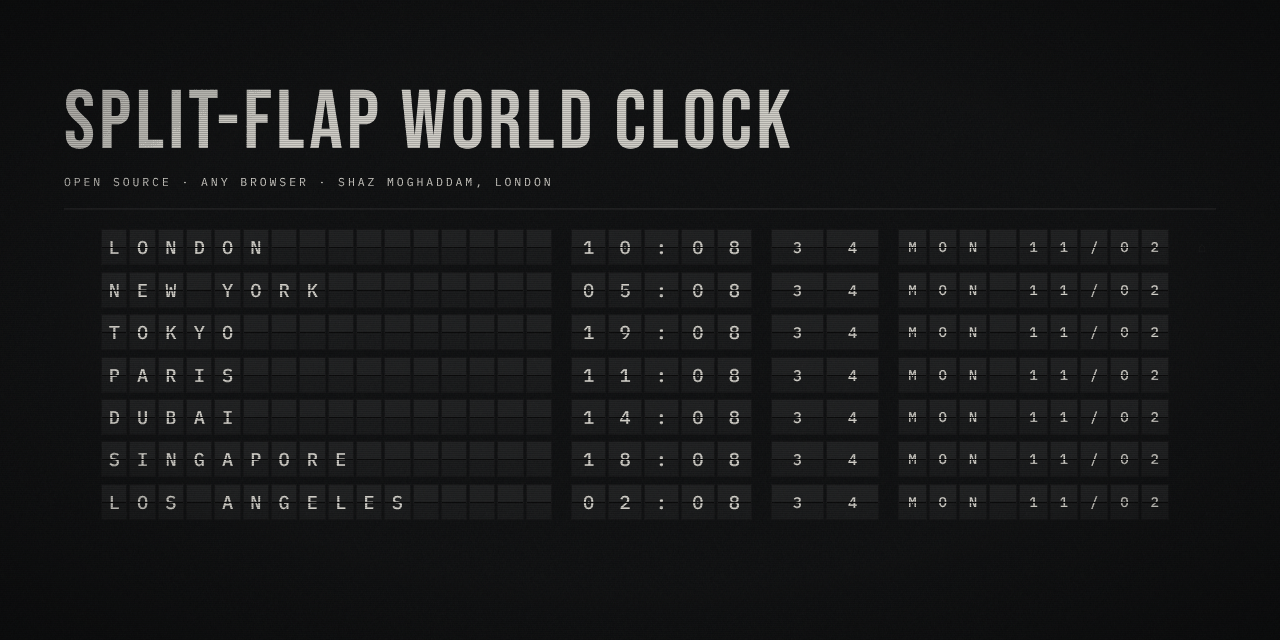
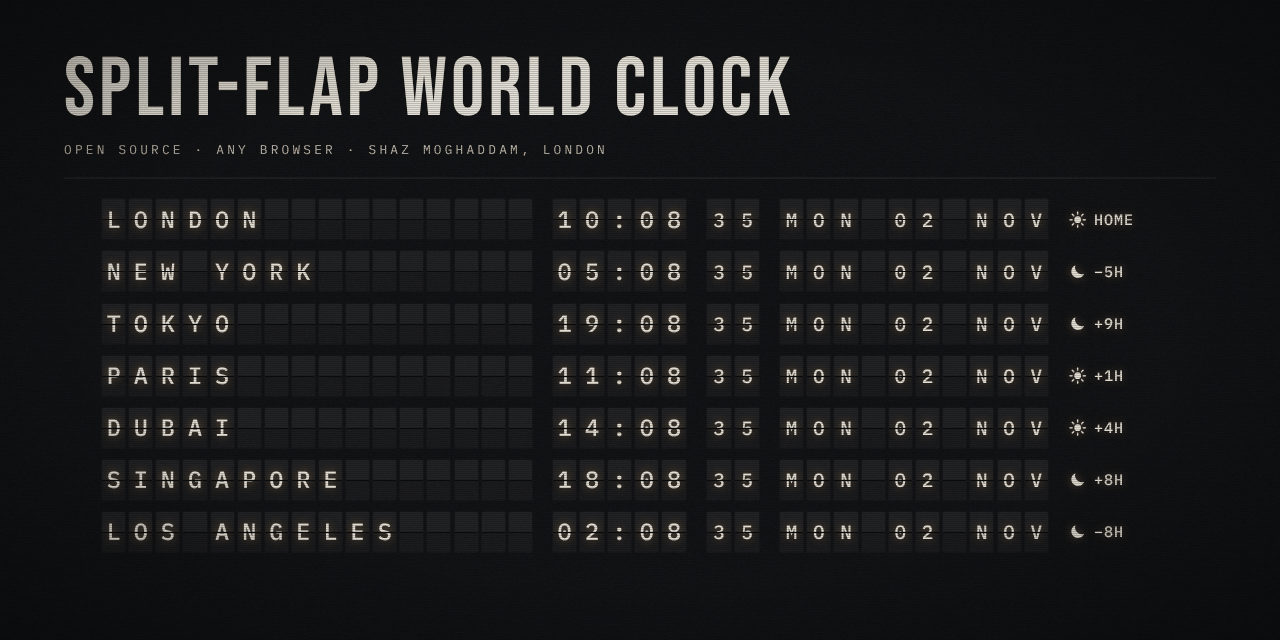
Docs and site for v1.0.0: README, site copy, screenshots, changelog
- README covers real split flaps, the F wave, day and night with time
  differences, the new date format, colour pickers, the backlit glow,
  the bigger board and the four Settings tabs
- Fresh board, Settings (Colours tab) and social preview images;
  preferences.png replaced by settings.png
- Site features, how-to and controls match the clock; Preferences is
  Settings everywhere; updated link preview description
- CONTRIBUTING explains colour presets instead of accent themes
- CHANGELOG folds everything into one 1.0.0 entry, grouped by area
- Clock: the first-visit hint is skipped inside the site's live
  preview, so visitors still see it when they open the clock

diff --git a/site/index.html b/site/index.html
@@ -9,7 +9,7 @@
 <meta property="og:type" content="website">
 <meta property="og:site_name" content="Split-Flap World Clock">
 <meta property="og:title" content="Split-Flap World Clock: a departure board for world time">
-<meta property="og:description" content="Up to ten cities on mechanical flaps, with sound, a night tint and full screen. Free and open source, nothing to install.">
+<meta property="og:description" content="Up to ten cities on real split flaps, with day and night, time differences, your own colours, sound and full screen. Free and open source, nothing to install.">
 <meta property="og:url" content="https://shazmoghaddam.github.io/split-flap-world-clock/">
 <meta property="og:image" content="https://shazmoghaddam.github.io/split-flap-world-clock/docs/social-preview.png">
 <meta property="og:image:width" content="1280">
@@ -42,7 +42,7 @@
 <main id="top">
   <section class="hero">
     <h1>A departure board<br>for <em>world time.</em></h1>
-    <p class="lede">Your cities on rows of mechanical flaps that clatter over as the minutes change. Open it in any browser, go full screen, and a spare laptop, monitor or tablet becomes a desk clock.</p>
+    <p class="lede">Your cities on rows of backlit flaps that fall over in two halves as the minutes change. Open it in any browser, go full screen, and a spare laptop, monitor or tablet becomes a desk clock.</p>
   </section>
 
   <section class="stage-wrap" aria-label="Live preview">
@@ -63,24 +63,24 @@
         <p>Up to ten from 290 cities around the world. Your home city comes from your device and stays on top; drag the rest into any order.</p>
       </li>
       <li>
-        <h3>Feels mechanical</h3>
-        <p>Tiles flip when they change, idle tiles twitch now and then, and <kbd>F</kbd> sends a cascade across the whole board.</p>
+        <h3>Real split flaps</h3>
+        <p>Each change falls over in two hinged halves, like an airport board. Idle tiles twitch now and then, and <kbd>F</kbd> sends one smooth wave across the board.</p>
+      </li>
+      <li>
+        <h3>Day and night at a glance</h3>
+        <p>A sun or moon on every row, its time difference from home, and clear dates like "MON 02 NOV". The board warms to amber through the evening.</p>
+      </li>
+      <li>
+        <h3>Your colours</h3>
+        <p>Pick any colour for the characters and the accent, start from a preset, and switch the backlit glow on or off.</p>
       </li>
       <li>
         <h3>Sounds right</h3>
         <p>Three flap sounds made live in the browser: heavy mechanical, plastic rattle and classic airport. Volume and mute included.</p>
       </li>
       <li>
-        <h3>Easy on the eyes at night</h3>
-        <p>The board drifts from a cool daylight white to a dim amber through the evening, and back again by morning.</p>
-      </li>
-      <li>
-        <h3>Fits any screen</h3>
-        <p>From a small laptop to a 4K monitor, every row fits without scrolling, even with ten cities.</p>
-      </li>
-      <li>
-        <h3>Private and offline</h3>
-        <p>One self-contained file with the fonts built in. No accounts, no tracking, and nothing leaves your device.</p>
+        <h3>Any screen, fully offline</h3>
+        <p>The board grows with your screen, up to 4K, and still fits ten cities. One file with the fonts built in: no accounts, no tracking.</p>
       </li>
     </ul>
   </section>
@@ -91,7 +91,7 @@
       <ol class="steps">
         <li>
           <h3>Open the clock</h3>
-          <p><a href="clock/">Open it here</a> in Chrome, Safari, Edge or Firefox. It starts with your home city and six others.</p>
+          <p><a href="clock/">Open it here</a> in Chrome, Safari, Edge or Firefox. It starts with your home city and six others, and a short hint shows the shortcuts on your first visit.</p>
         </li>
         <li>
           <h3>Go full screen</h3>
@@ -99,18 +99,19 @@
         </li>
         <li>
           <h3>Make it yours</h3>
-          <p>The gear opens Preferences: search for cities, pick one of nine accent colours and choose a flap sound. Everything is saved in your browser.</p>
+          <p>The gear opens Settings. Tap cities to add or remove them, pick any colour for the characters and the accent, and choose a flap sound. Everything is saved in your browser.</p>
         </li>
       </ol>
 
       <div class="keys">
         <h3>Controls</h3>
         <dl>
-          <div><dt><kbd>F</kbd></dt><dd>Flip the whole board</dd></div>
+          <div><dt><kbd>F</kbd></dt><dd>Send a wave across the board</dd></div>
           <div><dt><kbd>Shift</kbd> + <kbd>F</kbd></dt><dd>Full screen on or off</dd></div>
-          <div><dt><kbd>Esc</kbd></dt><dd>Close Preferences</dd></div>
+          <div><dt><kbd>Esc</kbd></dt><dd>Close Settings</dd></div>
           <div><dt>24H / 12H</dt><dd>Switch the time format</dd></div>
-          <div><dt>Row handles</dt><dd>Drag to reorder, or remove a city</dd></div>
+          <div><dt>Row handles</dt><dd>Drag a city up or down</dd></div>
+          <div><dt>Round cross</dt><dd>Take a city off the board</dd></div>
         </dl>
         <p class="keys__tip">On an iPad or iPhone, use Share, then Add to Home Screen, and open it from there for a full-screen clock.</p>
       </div>

diff --git a/app/src/main/assets/index.html b/app/src/main/assets/index.html
@@ -2865,6 +2865,8 @@ document.addEventListener('keydown', (e) => {
 /* ── First-visit hint: shows once, about 10 seconds, or until you interact ── */
 const HINT_KEY = 'terminaltime_hint_seen_v1';
 const showFirstHint = () => {
+  // Not inside the site's live preview: save the hint for the real clock
+  if (window.self !== window.top) return;
   let seen = false;
   try { seen = localStorage.getItem(HINT_KEY) === '1'; } catch (e) { seen = true; }
   if (seen) return;

diff --git a/docs/capture.py b/docs/capture.py
@@ -4,7 +4,7 @@
     python docs/capture.py
 
 Set CHROME_PATH to use an installed Chrome instead of Playwright's.
-Writes docs/board.png, docs/preferences.png and docs/social-preview.png.
+Writes docs/board.png, docs/settings.png and docs/social-preview.png.
 The clock is pinned to a morning time in London so the images are stable
 and show the neutral daytime tint.
 """
@@ -48,8 +48,9 @@ async def main():
         ctx, page = await open_clock(browser, 1280, 720)
         await page.mouse.move(640, 600)
         await page.click("#settingsBtn")
+        await page.click("#tabColours")
         await page.wait_for_timeout(600)
-        await page.screenshot(path=OUT / "preferences.png")
+        await page.screenshot(path=OUT / "settings.png")
         await ctx.close()
 
         # Social preview: the board's own header carries the title.

diff --git a/README.md b/README.md
@@ -5,17 +5,19 @@
 [![Deploy site](https://github.com/ShazMoghaddam/split-flap-world-clock/actions/workflows/pages.yml/badge.svg)](https://github.com/ShazMoghaddam/split-flap-world-clock/actions/workflows/pages.yml)
 [![MIT licence](https://img.shields.io/badge/licence-MIT-blue)](LICENSE)
 
-Split-Flap World Clock turns a spare laptop, monitor or tablet into a desk clock. Every city sits on its own row of mechanical flaps that clatter over as the minutes change, with synthesised flap sounds, a slow film grain and a tint that warms through the evening. It's one web page with nothing to install, and it runs offline.
+Split-Flap World Clock turns a spare laptop, monitor or tablet into a desk clock. Every city sits on its own row of backlit flaps that fall over in two halves as the minutes change, like a real airport board, with synthesised flap sounds, a slow film grain and a tint that warms through the evening. It's one web page with nothing to install, and it runs offline.
 
-![The board in daylight: London as the home city, then New York, Tokyo, Paris, Dubai, Singapore and Los Angeles, each with its time, seconds and date](docs/board.png)
+![The board in daylight: London as the home city, then New York, Tokyo, Paris, Dubai, Singapore and Los Angeles, each with its time, seconds, date, a sun or moon and its time difference from London](docs/board.png)
 
 **[Open the clock](https://shazmoghaddam.github.io/split-flap-world-clock/clock/)**, then press <kbd>Shift</kbd> + <kbd>F</kbd> for full screen. Or visit the [site](https://shazmoghaddam.github.io/split-flap-world-clock/) for a live preview.
 
-- **Your cities.** Pick up to ten from 290 cities around the world. Your home city comes from your device and always sits at the top; drag the others into any order.
-- **Feels mechanical.** Tiles flip when they change, idle tiles twitch now and then, and **F** sends a cascade across the whole board.
+- **Your cities.** Pick up to ten from 290 cities around the world. Your home city comes from your device's time zone and always sits at the top; drag the others into any order.
+- **Real split flaps.** Each change is two hinged halves: the old character's top half falls away and the new bottom half drops into place. Idle tiles twitch now and then, and **F** sends one smooth wave across the board.
+- **Day, night and time difference.** Every row shows a sun or moon and how far it is from home, like "+5H", "−8H" or "+5:30". Dates read "MON 02 NOV", the same in every country.
+- **Your colours.** Pick any colour for the characters and for the accent, with presets to start from, and turn the backlit glow on or off.
 - **Sounds right.** Three flap sounds made live with Web Audio (heavy mechanical, plastic rattle, classic airport), with volume and mute. No audio files.
-- **Easy on the eyes at night.** The board drifts from a cool daylight white to a dim amber through the evening and back by morning.
-- **Fits any screen.** From a small laptop to a 4K monitor, every row fits without scrolling, even with ten cities.
+- **Fits any screen.** The board grows with the screen, from a small laptop to a 4K monitor, and shrinks again so ten cities always fit.
+- **Easy on the eyes at night.** The board drifts from a cool daylight white to a warm, slightly dimmer amber through the evening, and back by morning.
 - **Stays awake.** The screen doesn't sleep while the clock is showing, in browsers that support it.
 - **Private.** One self-contained file with the fonts built in. No accounts, no tracking, and nothing leaves your device.
 
@@ -31,22 +33,29 @@ Split-Flap World Clock turns a spare laptop, monitor or tablet into a desk clock
 
 ## Using the clock
 
-Move the mouse or tap the screen to bring up the controls in the bottom corner. They fade away again after a few seconds.
+Move the mouse or tap the screen to bring up the controls in the bottom corner. They fade away again after a few seconds. On your first visit, a short hint at the bottom shows the main shortcuts.
 
 | Control | Key | What it does |
 | --- | --- | --- |
-| Gear | | Preferences: cities, colour theme and sound |
+| Gear | | Opens Settings |
 | 24H / 12H | | Switches the time format; 12-hour adds an AM/PM badge |
-| F | <kbd>F</kbd> | Flips the whole board |
+| F | <kbd>F</kbd> | Sends a wave across the whole board |
 | Full screen | <kbd>Shift</kbd> + <kbd>F</kbd> | Full screen on or off |
-| Speaker and VOL | | Mute and volume |
-| | <kbd>Esc</kbd> | Closes Preferences |
+| Speaker and VOL | | Mutes the board and sets the volume |
+| | <kbd>Esc</kbd> | Closes Settings |
 
-With the controls showing, each row gets a handle on the left to drag it and a cross on the right to remove it. In Preferences, search by city, country or time zone and click a city to add it. Pick one of nine accent colours and one of three flap sounds. Everything is saved in your browser.
+With the controls showing, each row gets a handle on the left to drag it up or down and a round cross on the right to take it off the board.
 
-Browsers only allow sound after you've clicked, tapped or pressed a key, so the flaps start clicking after your first interaction.
+### Settings
 
-![Preferences open on the Cities tab, with a search box and a list of cities and their local times](docs/preferences.png)
+- **Cities:** search by city, country or time zone. Tap a city to add it, and tap it again to remove it. Your home city is marked HOME.
+- **Colours:** pick a colour for the characters and one for the accent (buttons and highlights). Each has presets plus a rainbow swatch for any colour you like. You can also switch the backlit glow off, or reset everything.
+- **Sound:** choose one of three flap sounds. Press play to hear a single flap; previews play even when the board is muted.
+- **Shortcuts:** the keyboard, mouse and touch controls in one place.
+
+Everything is saved in your browser. Browsers only allow sound after you've clicked, tapped or pressed a key, so the flaps start clicking after your first interaction.
+
+![Settings open on the Colours tab, with swatches for the characters and the accent, a backlit glow switch and a reset button](docs/settings.png)
 
 ## As a desk display
 
@@ -70,7 +79,7 @@ sh scripts/build-site.sh serve
 The whole clock is one self-contained web page with its fonts embedded and no external requests. The site is a short landing page around it with a live preview. The Pages workflow assembles both into one folder on every push to `main`, so the clock at `/clock/` is always the same file as in the repo.
 
 ```
-app/src/main/assets/index.html   the clock: markup, styles, city list, flap engine, sound, tint
+app/src/main/assets/index.html   the clock: markup, styles, city list, flap engine, sound, colours, tint
 site/                            the landing page, its styles and fonts
 scripts/build-site.sh            assembles the site into _site/ (used by the Pages workflow)
 docs/                            README images, social preview and the script that renders them

diff --git a/CHANGELOG.md b/CHANGELOG.md
@@ -1,40 +1,36 @@
 # Changelog
 
-## Unreleased
-
-- Site: a light theme, so the page and the logo stand out, with the clock preview kept dark like a screen on a desk.
-- Site: the four top buttons are matching pills, with Open the clock no longer picked out in red.
-- Site: a terracotta and slate navy footer, and the headline accent now matches it.
-- The social preview image says "Any browser" instead of "Android".
-- Clock: a bigger, chunkier board. Tiles grow with the screen (taller, like real flaps) and still shrink to fit ten cities.
-- Clock: characters glow softly, like a backlit board, with a switch to turn it off.
-- Clock: each row shows a sun or moon for day or night, and its time difference from home (+5H, −8H, +5:30).
-- Clock: dates read "SUN 01 NOV" instead of "SUN 11/01", so they're the same in every country.
-- Clock: colour pickers replace the accent themes: one for the characters and one for the accent, each with presets and any custom colour. Earlier theme choices carry over.
-- Clock: sound previews in Preferences play even when the clock is muted.
-- Clock: the settings panel is redesigned with brighter text, a single Done button and clearer controls. Tap a city in the list to add it, and tap it again to take it off the board.
-- Clock: brighter row handles and remove buttons, and the seconds now turn over exactly on the second.
-- Clock: Preferences is now called Settings, and the gear's tooltip says so.
-- Clock: a Shortcuts tab in Settings lists the keys and the mouse and touch controls.
-- Clock: a one-time hint on your first visit shows how to bring up the controls, flip the board and go full screen.
-- Clock: sound previews play a single flap, so you hear exactly what each sound is like.
-- Clock: all text uses two consistent, readable brightness levels, and the night-time dimming is gentler.
-- Clock: every change is now a real two-half flap. The top half of the old character falls away and the bottom half of the new one drops into place.
-- Clock: the sun, moon and time difference use the character colour, so they match the board whatever colour you pick.
-- Clock: **F** sends one smooth wave across the board from left to right. Each tile counts up through the letters or digits just before its own and settles, and blank flaps stay still.
-
-## 1.0.0 (2026-10-31)
+## 1.0.0 (2026-11-01)
 
 First release as a web clock, with its own site.
 
-- A split-flap departure board for up to ten of 290 cities, with the home city found from the device, drag to reorder, 12 or 24 hour time, seconds and dates.
-- Flap animations, idle flips and a full-board cascade (**F**), three synthesised sound profiles with volume and mute, nine accent colours, film grain and a tint that warms through the evening.
-- New: a full screen button and **Shift + F**, and the screen stays awake while the clock is showing.
-- Fits every screen: tiles and text shrink to fit short screens and ten-row boards, which used to run off the bottom. Preferences keeps one height across its tabs and scrolls when space is tight.
-- A tap shows the controls on touch screens, and the keyboard no longer pops up over the city list.
-- Sound waits for your first click, tap or key press instead of filling the console with blocked-audio warnings.
-- Removed the unused service worker, install, update and offline banners. The clock never needs the network, and there was no service worker to install.
-- Renamed from "Terminal Time" to Split-Flap World Clock, with a new tab icon and a "Created by Shaz Moghaddam, London" credit in Preferences. Saved settings carry over.
-- Reduced motion turns off the intro fade and the grain.
-- A GitHub Pages site with a live preview, deployed from `main`, and a script to preview it locally.
-- README with screenshots, a social preview image, contributing guide, security policy and Dependabot for the workflows.
+### The board
+- A split-flap departure board for up to ten of 290 cities. Your home city comes from your device's time zone and stays on top, and you can drag the others into any order. It shows 12 or 24 hour time, seconds and dates.
+- Real two-half flaps: the old character's top half falls away and the new bottom half drops into place. This applies to the clock ticking, the idle flips and the cascade.
+- **F** sends one smooth wave from left to right. Each tile counts up through the letters or digits just before its own and settles, and blank flaps stay still.
+- Each row shows a sun or moon for day or night, and its time difference from home ("+5H", "−8H", "+5:30"), in the character colour.
+- Dates read "MON 02 NOV", the same in every country.
+- A soft backlit glow on the characters, which you can turn off.
+- The board grows with the screen, with tiles a little taller than wide like real flaps, and still shrinks so ten cities fit on short screens.
+- A full screen button and **Shift + F**, and the screen stays awake while the clock is showing.
+- The seconds turn over exactly on the second.
+- A tint that warms to amber through the evening, with gentle dimming, film grain and three synthesised flap sounds with volume and mute.
+
+### Settings
+- Four tabs: Cities, Colours, Sound and Shortcuts, with readable text, a rounded panel and one Done button.
+- Tap a city to add it, and tap it again to remove it. Your search stays put after either.
+- Colour pickers for the characters and the accent, each with presets and any custom colour, plus Reset. Accent themes chosen in earlier versions carry over.
+- Sound previews play a single flap, even when the board is muted.
+- A one-time hint on the first visit shows the controls and shortcuts. The site's preview doesn't use it up.
+- A "Created by Shaz Moghaddam, London" credit that links to his website.
+
+### Under the hood
+- Renamed from "Terminal Time" to Split-Flap World Clock, with a new tab icon. Saved settings carry over.
+- Removed the unused service worker and the install, update and offline banners. The clock never needs the network.
+- Sound waits for your first click, tap or key press, so the browser doesn't log blocked-audio warnings.
+- Touch friendly: a tap shows the controls, and the keyboard doesn't pop up over the city list.
+- Reduced motion turns off the intro fade, the grain and the flap animation.
+
+### Site and repo
+- A GitHub Pages site with a live preview of the clock: a light theme with pill buttons and a terracotta and slate navy footer, deployed from `main`, plus a script to preview it locally.
+- README with screenshots, a social preview image, a contributing guide, a security policy and Dependabot for the workflows.

diff --git a/CONTRIBUTING.md b/CONTRIBUTING.md
@@ -1,6 +1,6 @@
 # Contributing to Split-Flap World Clock
 
-Thanks for helping. Bug reports, new cities, themes and sound profiles are all welcome.
+Thanks for helping. Bug reports, new cities, colour presets and sound profiles are all welcome.
 
 ## Setup
 
@@ -24,9 +24,9 @@ Cities live in `ALL_CITIES`, grouped by region. Add an entry with an upper-case 
 
 Names are what the board saves, so don't rename existing cities or people's saved boards will lose them.
 
-## Adding a colour theme
+## Adding a colour preset
 
-Add an entry to `ACCENT_THEMES` with an `id`, a `label`, an `accent` colour and a brighter `accentHover`. Check it against the dark board and in the Preferences panel.
+Colours are picked freely in Settings, and the swatches are just starting points. Add a `{ label, hex }` entry to `INK_PRESETS` (characters) or `ACCENT_PRESETS` (buttons and highlights). Use a six-digit hex colour and check it on the dark board, with the glow on and off.
 
 ## Adding a sound profile
 
